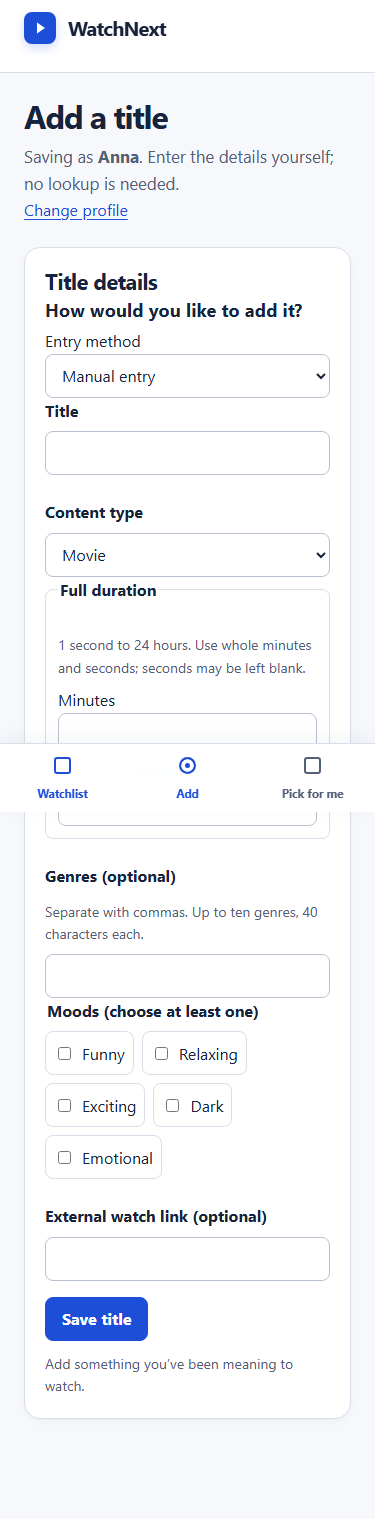
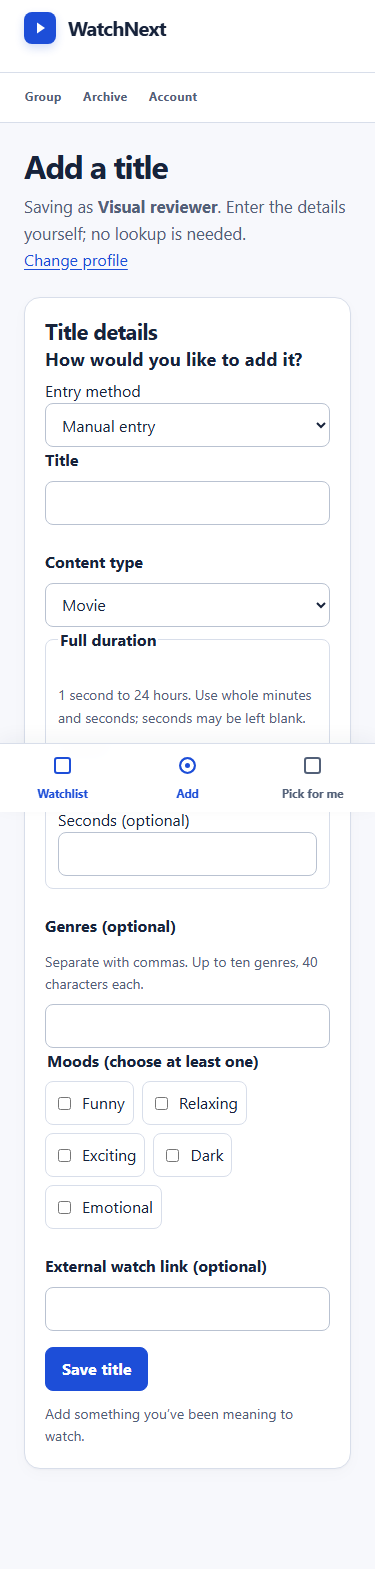
Refine Lovable-like WatchNext hierarchy for #63

diff --git a/app/styles.css b/app/styles.css
@@ -163,9 +163,14 @@ body { min-height: 100vh; background: #f7f8fc; }
 .site-header { position: sticky; top: 0; z-index: 20; background: color-mix(in srgb, var(--color-surface) 96%, transparent); backdrop-filter: blur(12px); }
 .shell { width: min(var(--content-width), calc(100% - 3rem)); }
 .header-content { min-height: 4.5rem; padding-block: .75rem; gap: 1rem; }
-.brand { font-size: 1.25rem; }
+.brand { color: var(--color-text); font-size: 1.25rem; text-decoration: none; }
 .brand-mark { width: 2rem; height: 2rem; border-radius: .5rem; box-shadow: 0 4px 10px #1d4ed833; }
-.navigation { margin-left: auto; }
+.context-badge { display: inline-flex; max-width: min(20rem, 28vw); align-items: center; gap: .35rem; overflow: hidden; padding: .35rem .7rem; border-radius: 999px; background: var(--color-background); color: var(--color-muted); font-size: .82rem; line-height: 1.2; white-space: nowrap; }
+.context-badge-group { overflow: hidden; color: var(--color-text); font-weight: 700; text-overflow: ellipsis; }
+.site-header nav[aria-label="Main navigation"] { display: flex; align-items: center; gap: .25rem; margin-left: auto; }
+.navigation { margin-left: 0; }
+.navigation-secondary { padding-left: .25rem; border-left: 1px solid var(--color-border); }
+.navigation-secondary .navigation-link { min-width: auto; padding-inline: .55rem; font-size: .82rem; }
 .navigation-link { min-height: 2.75rem; border-radius: .5rem; }
 .main-content { min-height: calc(100svh - 9rem); padding-block: clamp(1.5rem, 4vw, 2.5rem); }
 .page-content { max-width: none; }
@@ -198,22 +203,14 @@ body { min-height: 100vh; background: #f7f8fc; }
 .auth-links, .auth-footer { margin: 1.25rem 0 0; color: var(--color-muted); font-size: .9rem; text-align: center; }
 body:has(.auth-page) .site-header, body:has(.auth-page) .site-footer { display: none; }
 body:has(.auth-page) .main-content { width: 100%; min-height: 100svh; padding: 0; }
-/* The reference cards sit 24px below the 375px viewport centre. Keeping this
-   explicit avoids the browser's grid free-space rounding moving the form. */
-.auth-page { transform: translateY(23px); }
-.auth-brand { transform: translateY(13px); }
-.auth-tagline { transform: translateY(3px); }
 body:has(.auth-page) .mobile-navigation { display: none; }
 body:has(.auth-page) { padding-bottom: 0; }
-@media (min-width: 48rem) {
-  .auth-page { transform: translateY(22px); }
-  .auth-tagline { transform: translateY(5px); }
-}
 
 /* Shared library layout copied from the reference's grid and chips, while
    still rendering only titles that the server authorized. */
 .watchlist-page .page-heading { position: relative; padding-right: 9rem; }
 .watchlist-page .page-heading > .button { position: absolute; right: 0; top: .5rem; }
+.watchlist-page .page-heading h1 { max-width: 38rem; }
 .watchlist-filters { gap: .5rem; margin: 0 0 1rem; }
 .watchlist-filters .button { min-height: 2.25rem; padding: .375rem .75rem; border-radius: 999px; font-size: .875rem; }
 .type-chips { display: flex; flex-wrap: wrap; gap: .5rem; margin: 1rem 0 .75rem; }
@@ -269,6 +266,7 @@ body:has(.auth-page) { padding-bottom: 0; }
 .picker-page > .group-result { margin-top: 1.5rem; }
 
 .mobile-navigation { display: none; }
+.mobile-utility-navigation { display: none; }
 @media (min-width: 48rem) {
   .watchlist-items { grid-template-columns: repeat(3, minmax(0, 1fr)); }
 }
@@ -283,6 +281,10 @@ body:has(.auth-page) { padding-bottom: 0; }
   .site-header { position: static; }
   .header-content { min-height: 4rem; }
   .navigation { display: none; }
+  .context-badge { display: none; }
+  .mobile-utility-navigation { display: flex; gap: .25rem; overflow-x: auto; padding: .4rem 1rem; border-bottom: 1px solid var(--color-border); background: var(--color-surface); }
+  .mobile-utility-navigation a { display: inline-flex; min-height: 2.25rem; align-items: center; padding-inline: .55rem; border-radius: .45rem; color: var(--color-muted); font-size: .78rem; font-weight: 700; text-decoration: none; white-space: nowrap; }
+  .mobile-utility-navigation a[aria-current="page"] { background: var(--color-accent-soft); color: var(--color-accent); }
   .main-content { padding-top: 1.5rem; }
   .site-footer { display: none; }
   .mobile-navigation { position: fixed; z-index: 30; right: 0; bottom: 0; left: 0; display: grid; grid-template-columns: repeat(3, 1fr); padding-bottom: env(safe-area-inset-bottom); border-top: 1px solid var(--color-border); background: color-mix(in srgb, var(--color-surface) 96%, transparent); backdrop-filter: blur(12px); box-shadow: 0 -5px 18px #17233b0c; }
@@ -294,8 +296,9 @@ body:has(.auth-page) { padding-bottom: 0; }
   .watchlist-page .page-heading { padding-right: 0; }
   .watchlist-page .page-heading > .button { position: static; margin-top: 1rem; }
   .watchlist-items { gap: .75rem; }
-  .watchlist-card { grid-template-columns: 5.25rem minmax(0, 1fr); gap: .75rem; }
-  .watchlist-card .title-cover { min-height: 7.85rem; }
+  .watchlist-card { display: flex; flex-direction: column; gap: .65rem; }
+  .watchlist-card .title-cover { min-height: 0; aspect-ratio: 2 / 3; }
+  .watchlist-card .title-cover.video-cover { aspect-ratio: 16 / 9; }
   .watchlist-metadata h2 { font-size: .98rem; }
   .watchlist-metadata p:nth-of-type(n+4) { display: none; }
   .detail-metadata { grid-template-columns: 1fr; gap: 1.25rem; }

diff --git a/app/components/navigation.tsx b/app/components/navigation.tsx
@@ -4,12 +4,21 @@ import Link from "next/link";
 import { usePathname } from "next/navigation";
 
 export const destinations = [
-  { href: "/", label: "Group entry" },
   { href: "/watchlist", label: "Watchlist" },
+  { href: "/watchlist/add", label: "Add" },
   { href: "/pick", label: "Pick for me" },
-  { href: "/archive", label: "Archive" },
-  { href: "/account", label: "Account groups" },
 ];
+
+const secondaryDestinations = [
+  { href: "/group", label: "Group" },
+  { href: "/archive", label: "Archive" },
+  { href: "/account", label: "Account" },
+];
+
+function activeDestination(pathname: string, href: string) {
+  if (href === "/watchlist") return pathname === href || (pathname.startsWith("/watchlist/") && !pathname.startsWith("/watchlist/add"));
+  return pathname === href || pathname.startsWith(href + "/");
+}
 
 export function Navigation() {
   const pathname = usePathname();
@@ -21,9 +30,9 @@ export function Navigation() {
   );
   return (
     <nav aria-label="Main navigation">
-      <ul className="navigation">
+      <ul className="navigation navigation-primary">
         {destinations.map(({ href, label }) => {
-          const active = pathname === href || (href === "/" && pathname === "/group") || (href !== "/" && pathname.startsWith(href + "/"));
+          const active = activeDestination(pathname, href);
           return (
             <li key={href}>
               <Link className="navigation-link" href={href} aria-current={active ? "page" : undefined}>
@@ -32,6 +41,9 @@ export function Navigation() {
             </li>
           );
         })}
+      </ul>
+      <ul className="navigation navigation-secondary" aria-label="Other destinations">
+        {secondaryDestinations.map(({ href, label }) => <li key={href}><Link className="navigation-link" href={href} aria-current={activeDestination(pathname, href) ? "page" : undefined}>{label}</Link></li>)}
       </ul>
     </nav>
   );
@@ -45,11 +57,10 @@ export function Navigation() {
 export function MobileNavigation() {
   const pathname = usePathname();
   if (pathname === "/mock" || pathname.startsWith("/mock/")) return null;
-  const mobile = destinations.filter(({ href }) => ["/watchlist", "/pick"].includes(href));
   const links = [
-    mobile[0],
+    destinations[0],
     { href: "/watchlist/add", label: "Add" },
-    mobile[1],
+    destinations[2],
   ];
   return <nav className="mobile-navigation" aria-label="Main navigation mobile">
     {links.map(({ href, label }) => {
@@ -59,5 +70,13 @@ export function MobileNavigation() {
         {label}
       </Link>;
     })}
+  </nav>;
+}
+
+export function MobileUtilityNavigation() {
+  const pathname = usePathname();
+  if (pathname === "/mock" || pathname.startsWith("/mock/")) return null;
+  return <nav className="mobile-utility-navigation" aria-label="Other destinations">
+    {secondaryDestinations.map(({ href, label }) => <Link key={href} href={href} aria-current={activeDestination(pathname, href) ? "page" : undefined}>{label}</Link>)}
   </nav>;
 }

diff --git a/app/watchlist/watchlist-view.tsx b/app/watchlist/watchlist-view.tsx
@@ -9,12 +9,13 @@ import { Cover } from "./cover";
 import { ContributionControls } from "./contribution-controls";
 import type { ContributionState } from "../../lib/contribution-state";
 
-export function WatchlistContent({ view, archived = false, contributionAction }: { view: WatchlistView; archived?: boolean; contributionAction?: (id: string, previous: ContributionState, form: FormData) => Promise<ContributionState> }) {
+export function WatchlistContent({ view, groupName, archived = false, contributionAction }: { view: WatchlistView; groupName?: string; archived?: boolean; contributionAction?: (id: string, previous: ContributionState, form: FormData) => Promise<ContributionState> }) {
   const selected = Boolean(view.activeMemberId);
   const [type, setType] = useState<"all" | "movie" | "series" | "anime" | "youtube">("all");
   const visibleItems = useMemo(() => type === "all" ? view.items : view.items.filter((item) => item.contentType === type), [type, view.items]);
   const types = [{ value: "all", label: "All" }, { value: "movie", label: "Movies" }, { value: "series", label: "Series" }, { value: "anime", label: "Anime" }, { value: "youtube", label: "YouTube" }] as const;
-  return <div className="page-content watchlist-page"><div className="page-heading"><p className="eyebrow">Shared list</p><h1>{archived ? "Archive" : "Your watchlist"}</h1><p className="page-introduction">{archived ? "Saved history, ready whenever your group wants to return." : "All the things your group has been meaning to watch."}</p>
+  const countLabel = `${view.items.length} ${view.items.length === 1 ? "title" : "titles"}`;
+  return <div className="page-content watchlist-page"><div className="page-heading"><p className="eyebrow">{archived ? "Shared history" : "Shared watchlist"}</p><h1>{archived ? "Archive" : groupName ?? "Your watchlist"}</h1><p className="page-introduction">{archived ? "Saved history, ready whenever your group wants to return." : `Everything your group wants to watch · ${countLabel}`}</p>
     {archived ? <><p>{selected ? "Restore a title to add your name and bring it back to the watchlist." : "Choose a profile before restoring a title."}</p>{!selected && <Link className="button" href="/group">Choose profile</Link>}</> : selected ? <Link className="button" href="/watchlist/add">Add title</Link> : <><p>Choose a profile before adding a title.</p><Link className="button" href="/group">Choose profile</Link></>}
   </div>
   {!archived&&view.canFilter&&<nav className="watchlist-filters" aria-label="Watchlist filter"><a className="button button-secondary" href="/watchlist" aria-label="All titles" aria-current={view.filter!=="mine"?"page":undefined}>All</a><a className="button button-secondary" href="/watchlist?filter=mine" aria-current={view.filter==="mine"?"page":undefined}>Added by me</a></nav>}

diff --git a/tests/navigation.test.tsx b/tests/navigation.test.tsx
@@ -1,6 +1,6 @@
 import { cleanup, render, screen } from "@testing-library/react";
 import { afterEach, describe, expect, it, vi } from "vitest";
-import { Navigation } from "../app/components/navigation";
+import { MobileUtilityNavigation, Navigation } from "../app/components/navigation";
 import { Picker } from "../app/pick/picker";
 
 
@@ -9,19 +9,27 @@ vi.mock("next/navigation", () => ({ usePathname: () => route.pathname }));
 afterEach(cleanup);
 
 describe("shared navigation", () => {
-  for (const [path, label] of [["/", "Group entry"], ["/watchlist", "Watchlist"], ["/pick", "Pick for me"], ["/archive", "Archive"], ["/account", "Account groups"]]) {
+  for (const [path, label] of [["/watchlist", "Watchlist"], ["/watchlist/add", "Add"], ["/pick", "Pick for me"], ["/group", "Group"], ["/archive", "Archive"], ["/account", "Account"]]) {
     it(`marks only ${label} current on ${path} and supplies real destinations`, () => {
       route.pathname = path;
       render(<Navigation />);
       expect(screen.getByRole("navigation", { name: "Main navigation" })).toBeTruthy();
-      expect(screen.getAllByRole("link")).toHaveLength(5);
+      expect(screen.getAllByRole("link")).toHaveLength(6);
       expect(screen.getAllByRole("link").map((link) => link.getAttribute("href")))
-        .toEqual(["/", "/watchlist", "/pick", "/archive", "/account"]);
+        .toEqual(["/watchlist", "/watchlist/add", "/pick", "/group", "/archive", "/account"]);
       const current = screen.getAllByRole("link").filter((link) => link.getAttribute("aria-current") === "page");
       expect(current).toHaveLength(1);
       expect(current[0].textContent).toBe(label);
     });
   }
+});
+
+it("keeps Group, Archive and Account discoverable beside the compact mobile primary navigation", () => {
+  route.pathname = "/watchlist";
+  render(<MobileUtilityNavigation />);
+  const utility = screen.getByRole("navigation", { name: "Other destinations" });
+  expect(utility.querySelectorAll("a")).toHaveLength(3);
+  expect(Array.from(utility.querySelectorAll("a")).map(link => link.getAttribute("href"))).toEqual(["/group", "/archive", "/account"]);
 });
 
 it("real Pick destination keeps one heading and an honest empty-group action", () => {

diff --git a/app/layout.tsx b/app/layout.tsx
@@ -1,6 +1,8 @@
 import type { Metadata } from "next";
 import type { ReactNode } from "react";
-import { MobileNavigation, Navigation } from "./components/navigation";
+import Link from "next/link";
+import { ContextBadge } from "./components/context-badge";
+import { MobileNavigation, MobileUtilityNavigation, Navigation } from "./components/navigation";
 import "./styles.css";
 
 export const metadata: Metadata = {
@@ -15,17 +17,19 @@ export default function RootLayout({ children }: { children: ReactNode }) {
         <a className="skip-link" href="#main-content">Skip to main content</a>
         <header className="site-header">
           <div className="shell header-content">
-            <div className="brand" aria-label="WatchNext">
+            <Link className="brand" href="/watchlist" aria-label="WatchNext home">
               <span className="brand-mark" aria-hidden="true">
                 <svg width="18" height="18" viewBox="0 0 18 18" fill="none">
                   <path d="M6 3.5 14 9l-8 5.5v-11Z" fill="currentColor" />
                 </svg>
               </span>
               <span>WatchNext</span>
-            </div>
+            </Link>
+            <ContextBadge />
             <Navigation />
           </div>
         </header>
+        <MobileUtilityNavigation />
         <main id="main-content" className="shell main-content" tabIndex={-1}>
           {children}
         </main>

diff --git a/app/watchlist/page.tsx b/app/watchlist/page.tsx
@@ -1,5 +1,5 @@
 import { getDatabase } from "../../db/server";
-import { getGroupRequest } from "../../lib/access";
+import { getActiveGroup, getGroupRequest } from "../../lib/access";
 import { readWatchlist } from "../../lib/watchlist";
 import { AccessError } from "../../lib/sessions";
 import { AccessErrorMessage } from "../components/access-error";
@@ -12,6 +12,6 @@ export const dynamic = "force-dynamic";
 export default async function WatchlistPage({searchParams}: {searchParams?:Promise<Record<string,string|string[]|undefined>>}) {
   const parameters=await searchParams;
   const requested=Object.keys(parameters??{}).some(key=>key.startsWith("filter["))?[]:parameters?.filter;
-  try { const view=readWatchlist(getDatabase(),await getGroupRequest(),false,requested);const content=<WatchlistContent view={view}/>;return view.canFilter?<WatchlistReadBoundary>{content}</WatchlistReadBoundary>:content; }
+  try { const request=await getGroupRequest(), group=await getActiveGroup(), view=readWatchlist(getDatabase(),request,false,requested);const content=<WatchlistContent view={view} groupName={group.groupName}/>;return view.canFilter?<WatchlistReadBoundary>{content}</WatchlistReadBoundary>:content; }
   catch (error) { return error instanceof AccessError ? <AccessErrorMessage /> : <WatchlistLoadError filter={parseWatchlistFilter(requested).filter}/>; }
 }

diff --git a/app/archive/page.tsx b/app/archive/page.tsx
@@ -1,5 +1,5 @@
 import { getDatabase } from "../../db/server";
-import { getGroupRequest, getActionContext } from "../../lib/access";
+import { getGroupRequest, getActionContext, getActiveGroup } from "../../lib/access";
 import { readWatchlist } from "../../lib/watchlist";
 import { AccessError } from "../../lib/sessions";
 import { AccessErrorMessage } from "../components/access-error";
@@ -9,6 +9,6 @@ import { contributionAction } from "../watchlist/contribution-actions";
 export const dynamic = "force-dynamic";
 
 export default async function ArchivePage() {
-  try { const contextKey=await getActionContext(); return <WatchlistContent view={readWatchlist(getDatabase(), await getGroupRequest(), true)} archived contributionAction={contributionAction.bind(null,contextKey)} />; }
+  try { const contextKey=await getActionContext(), group=await getActiveGroup(); return <WatchlistContent view={readWatchlist(getDatabase(), await getGroupRequest(), true)} groupName={group.groupName} archived contributionAction={contributionAction.bind(null,contextKey)} />; }
   catch (error) { return error instanceof AccessError ? <AccessErrorMessage /> : <WatchlistLoadError archived />; }
 }

diff --git a/app/components/context-badge.tsx b/app/components/context-badge.tsx
@@ -1,0 +1,21 @@
+import { getDatabase } from "../../db/server";
+import { getActiveGroup } from "../../lib/access";
+
+/** A small truthful group/person pill; it never relies on browser fixtures. */
+export async function ContextBadge() {
+  try {
+    const context = await getActiveGroup();
+    const member = context.activeMemberId
+      ? getDatabase().prepare("SELECT name FROM members WHERE id=? AND group_id=?")
+        .get(context.activeMemberId, context.groupId) as { name?: string } | undefined
+      : undefined;
+    const identity = member?.name ?? (context.mode === "account" ? "Account member" : "Choose profile");
+    return <span className="context-badge" title={`${context.groupName} · ${identity}`}>
+      <span className="context-badge-group">{context.groupName}</span>
+      <span aria-hidden="true">·</span>
+      <span>{identity}</span>
+    </span>;
+  } catch {
+    return null;
+  }
+}

diff --git a/tests/frontend/preview.test.tsx b/tests/frontend/preview.test.tsx
@@ -54,6 +54,6 @@ it("only the explicit mock path gets isolated navigation; production prefixes ke
   expect(screen.getAllByRole("link").map(link => link.getAttribute("href"))).toEqual(["/mock", "/"]);
   for (const pathname of ["/", "/watchlist", "/mockery"]) {
     route.pathname = pathname; rendered.rerender(<Navigation />);
-    expect(screen.getByRole("navigation", { name: "Main navigation" })).toBeTruthy(); expect(screen.getAllByRole("link")).toHaveLength(5);
+    expect(screen.getByRole("navigation", { name: "Main navigation" })).toBeTruthy(); expect(screen.getAllByRole("link")).toHaveLength(6);
   }
 });

diff --git a/_docs/evidence/lovable-alignment.md b/_docs/evidence/lovable-alignment.md
@@ -8,9 +8,9 @@
 
 ## Capture method
 
-All local captures use the normal production-built Next application at an owned loopback origin. The protected states are created through the repository's existing isolated `prepareDemo` fixture and then reached through normal invite, group, profile and route actions. The data is synthetic and the fixture's database is outside the repository and normal user database; invite secrets are not saved in this repository or shown in images. Candidate lookup uses the repository's existing test-only provider transport, not a live provider or a copied reference store.
+All local captures use the normal production-built Next application at an owned loopback origin. The refreshed library/Add captures were made with a disposable fixture: a synthetic group and profile were created through normal invite and group actions, then a manual title was saved through the normal Add form. The data is synthetic and the fixture database is outside the repository and normal user database; invite secrets are not saved in this repository or shown in images. Candidate lookup uses the repository's existing test-only provider transport, not a live provider or a copied reference store.
 
-The screenshots use Chromium at the fixed 1280 × 900 and 375 × 812 viewports. Full-page capture is used for every state. The recorded source screenshots are in `_docs/references/lovable-2026-10-19/`; that source pack contains sign-in at both widths and post-login library/Add/picker at desktop only. It does **not** contain post-login mobile, search, or detail captures, so those states have inspected-source and local functional evidence rather than a fabricated claimed source pixel pair.
+The screenshots use Chromium at the fixed 1280 × 900 and 375 × 812 viewports. Full-page capture is used for every state. The refreshed `protected/library-*` and `protected/add-*` images were checked after the final header/card changes; both widths had no horizontal overflow and a visible keyboard focus outline on the Add link. The recorded source screenshots are in `_docs/references/lovable-2026-10-19/`; that source pack contains sign-in at both widths and post-login library/Add/picker at desktop only. It does **not** contain post-login mobile, search, or detail captures, so those states have inspected-source and local functional evidence rather than a fabricated claimed source pixel pair.
 
 ## Captured route/state pairs
 
@@ -24,22 +24,19 @@ The screenshots use Chromium at the fixed 1280 × 900 and 375 × 812 viewports. 
 | Picker result | `protected/picker-result-desktop.png` | `protected/picker-result-mobile.png` | Normal picker result after Pick action |
 | Title detail | `protected/detail-desktop.png` | `protected/detail-mobile.png` | Normal title detail route for fixture content |
 
-## Sign-in comparison and tolerance
+## Visual review
 
-`sign-in-desktop-overlay.png` and `sign-in-mobile-overlay.png` overlay the pinned-source capture and local capture at 50% opacity. They were inspected together with the originals. The fixed geometry acceptance threshold is **2 CSS pixels** for the matched card region; it is set before the final comparison. The local card bounds come from Chromium's DOM layout inspection and source bounds from the recorded pinned reference screenshot:
+The reference provides direction for a **Lovable-like appearance**, not a pixel-perfect reproduction. The source and local captures were reviewed at 1280 × 900 and 375 × 812 for the shared light palette, centred authentication surface, bounded forms, compact header, card grid, rounded controls and the signed-in mobile bottom navigation. The screenshot files listed above are retained as the review record.
 
-| Viewport | Reference card (x, y, width, height) | Local card | Largest absolute difference | Result |
-| --- | --- | --- | --- | --- |
-| 1280 × 900 | 416, 300, 448, 390 | 416, 299.734, 448, 389.609 | 0.391px | Pass |
-| 375 × 812 | 16, 268, 343, 393 | 16, 267.344, 343, 394 | 1px | Pass |
+The final review deliberately does not use overlays, pixel-difference percentages or CSS-pixel thresholds. WatchNext has real identity, group, recovery, access-error and provider-safe states that are absent from the prototype, so a numerical image-match claim would be misleading. The review instead checks that these real states use the same visual language and remain understandable.
 
-The card-boundary pixel tolerance is a maximum one-pixel edge displacement (under the required two-pixel geometry limit). A whole-page 1% content diff is deliberately not claimed: the real app has required account/recovery/discovery copy and the prototype has different static form copy and a Lovable badge. Those narrow dynamic text regions are visible in the overlay; no card, field, navigation, or layout region is masked. The visible geometry and color/focus treatment, rather than an invalid whole-page semantic diff, are the comparison evidence.
-
-The mobile capture also verifies that signed-out pages do not show the signed-in fixed bottom navigation. Protected captures verify the desktop sticky navigation and the signed-in 375px bottom Watchlist/Add/Pick navigation without overlap.
+The mobile capture verifies that signed-out pages do not show signed-in navigation. Protected captures verify that the primary Watchlist/Add/Pick routes fit above the bottom bar and that Group, Archive and Account stay reachable through the compact utility links.
 
 ## Functional and accessibility inspection
 
 - `/watchlist` type chips filter only the already-authorized rendered list; the server query and picker preferences are unchanged.
+- The desktop header gives Watchlist, Add and Pick for me the primary hierarchy, shows the actual active group/person when one is available, and keeps Group, Archive and Account as secondary destinations. On small screens the same secondary destinations appear in the utility row above the fixed primary navigation.
+- The library uses the actual group name and current title total in its heading, with separate All / Added by me controls and the existing truthful card metadata, covers and contributors.
 - The fixture journey used actual group/profile route actions and real protected routes; Add/search, picker and title detail are not fabricated screenshots.
 - At both target widths, the main controls remain visible, labelled and keyboard-focusable; the responsive views have no horizontal overflow and preserve the existing skip-link/focus styles.
 - The actual visual differences are limited to truthful application content absent from the prototype: real account/recovery/discovery links, actual selected group/person/title text, and real safety/error/empty states. They are not presented as source-identical content.
